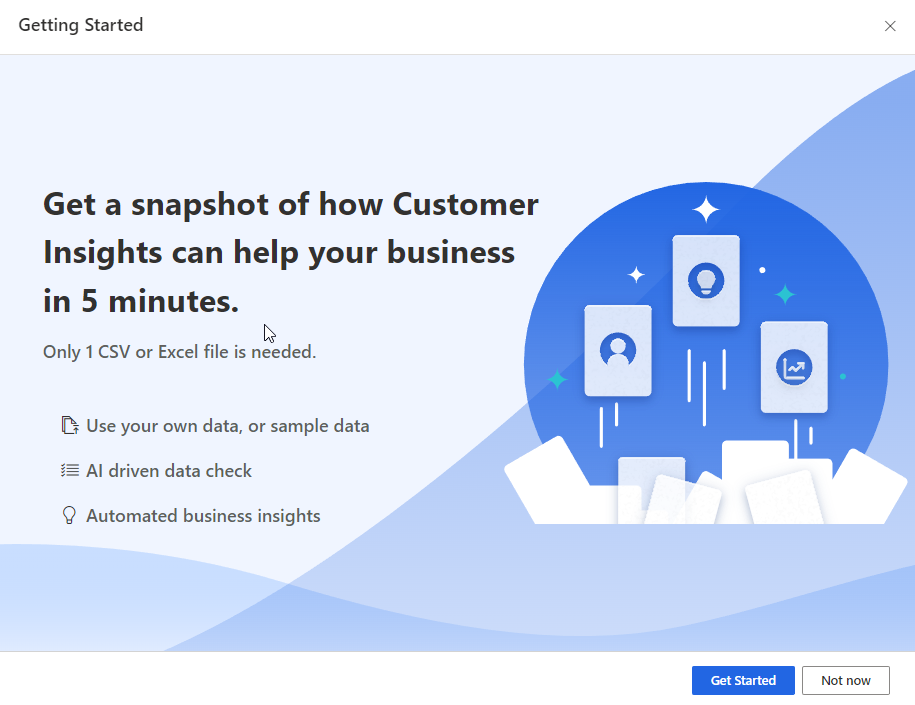
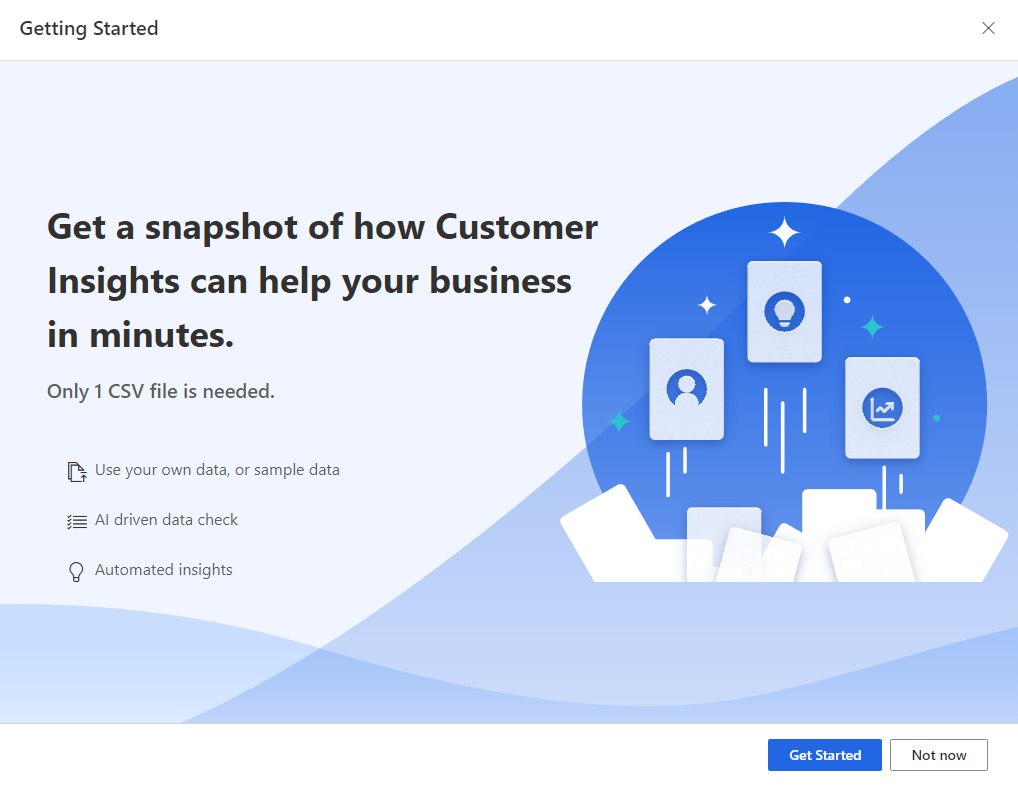
Screens and other changes for single source

diff --git a/ci-docs/data-sources-single.md b/ci-docs/data-sources-single.md
@@ -1,7 +1,7 @@
 ---
-title: "Experience Customer Insights in 5 minutes"
+title: "Experience Customer Insights in minutes"
 description: "Learn how to ingest data from a single file or from sample data"
-ms.date: 12/1/2022
+ms.date: 12/6/2022
 
 ms.subservice: audience-insights
 ms.topic: overview
@@ -15,13 +15,13 @@ searchScope:
   - customerInsights
 ---
 
-# Experience Customer Insights in 5 minutes
+# Experience Customer Insights in minutes
 
 Dynamics 365 Customer Insights provides ingestion of a single data source to get you up and running quickly. Provide your own data in a .csv file or choose sample data.
 
 ## Prerequisites
 
-- File must be a CSV file
+- File must be a CSV file with only letters, numbers, and _ in the file name
 - File must contain more than 100 rows and 5 columns
 - File must include at least one column of each data category:
   - Identity: Customer number, email, SSN
@@ -30,9 +30,9 @@ Dynamics 365 Customer Insights provides ingestion of a single data source to get
 
 ## Ingest a single data source
 
-1. On the **Home** page, select **Get insights in 5 mins**.
+1. On the **Home** page, select **Get insights in mins**.
 
-   :::image type="content" source="media/home-single-file.png" alt-text="Screenshot of Home page with Get insights in 5 mins selected.":::
+   :::image type="content" source="media/home-single-file.png" alt-text="Screenshot of Home page with Get insights in mins selected.":::
 
 1. Select **Add data**. The Getting Started page displays.
 
@@ -40,35 +40,30 @@ Dynamics 365 Customer Insights provides ingestion of a single data source to get
 
 1. Select **Get started**.
 
-   :::image type="content" source="media/data-source-single-file-step1.png" alt-text="Screenshot of Home page with Get insights in 5 mins selected.":::
+   :::image type="content" source="media/get-started-add-data.png" alt-text="Screenshot of Getting Started - Add Data to add your single CSV file.":::
 
-1. To use your own data, browse or drag and drop your file. To use sample data, select **Download Microsoft’s sample data** and load the sample file.
-
-   If the file meets the prerequisites, **Next** displays.
+1. To use your own data, browse or drag and drop your file. To use sample data, select **Download Microsoft’s sample data** and load the sample file. If the file meets the prerequisites, **Next** displays.
 
 1. Click **Next**. Customer Insights checks the data quality.
 
    > [!TIP]
    > If an error occurs during data processing, Customer Insights explains the issue in a message and provides an action to take. For example, if required attributes needed to generate insights are not identified, click [**Map data**](#map-required-data).
 
-1. Click **Next**. Customer Insights removes duplicate records, creates customer profiles, and generates insights such as segments and measures.
-
-1. While waiting for your data to process, click the link to learn more about Customer Insights. Proceed through the tutorial.
+   After the data quality checks, Customer Insights removes duplicate records, creates customer profiles, and generates insights such as segments and measures.
 
 1. Upon a successful completion, the **Results** page displays results from your file:
-   - Data quality checks which can be viewed in a report
    - Number of mapped columns
    - Number of missing rows
    - Number of duplicate rows
    - Suggested segments and measures
 
-1. To export the segments, select **export page**. Otherwise, select **Done** to go to the **Home** page.
+1. Select **Done** to go to the **Home** page.
 
 ### Map required data
 
 1. Under the **Needs mapping** tab, select each field in your file that matches the list of fields displayed.
 
-1. Review all mapped fields under **All mapped** tab and make changes if necessary.
+1. Review all mapped fields under the **All mapped** tab and make changes if necessary.
 
 1. Select **Next**.
 

diff --git a/ci-docs/home.md b/ci-docs/home.md
@@ -1,7 +1,7 @@
 ---
 title: "Explore Customer Insights"
 description: "Start exploring the app on the Home page."
-ms.date: 05/11/2022
+ms.date: 12/6/2022
 ms.reviewer: mhart
 ms.subservice: audience-insights
 ms.topic: conceptual
@@ -17,9 +17,13 @@ searchScope:
 
 You can access [Dynamics 365 Customer Insights](https://home.ci.ai.dynamics.com/) on the following URL: [https://home.ci.ai.dynamics.com/](https://home.ci.ai.dynamics.com/).
 
-The **Home** page guides you through the configuration process for key features and provides an overview of segments, measures, and enrichment data.
+The **Home** page guides you through the configuration process for key features and provides an overview of segments, measures, and enrichment data. The default home page shows how to get insights in minutes by adding data in a single file.
 
-:::image type="content" source="media/home-page.png" alt-text="Screenshot of the Home screen showing sample insights.":::
+:::image type="content" source="media/home-single-file.png" alt-text="Screenshot of the default Home screen showing get insights in minutes.":::
+
+If you have multiple data sources, select **Step-by-step guide**.
+
+:::image type="content" source="media/home-page.png" alt-text="Screenshot of the Home screen showing step-by-step cards.":::
 
 ## Left side pane
 
@@ -39,7 +43,15 @@ The **Settings** control, represented by a gear icon, lets you gather session de
 
 Your profile picture opens the **Account manager** for your Microsoft 365 profile. Select **My account** to manage your personal settings.
 
-## Getting started with Customer Insights section
+## Getting started with Customer Insights
+
+The cards that display on the **Home** page depend on the selection: **Get insights in mins** or **Step-by-step guide**.
+
+### Get insights in minutes
+
+This section contains a card to upload a single file and receive automatic customer insights and then a card to add connections to activate those insights. Select **Add data** to [upload your file](data-sources-single.md). Once your data is uploaded and insights such as segments and measures generated, select **Add connections** to connect your favorite services. For example, export the data to Facebook to use in social media.
+
+### Step-by-step guide
 
 This section contains cards that help you walk through the process of setting up your Customer Insights environment.
 

diff --git a/ci-docs/get-started.md b/ci-docs/get-started.md
@@ -4,7 +4,7 @@ description: An overview of Customer Insights help resources to get started quic
 ms.reviewer: mhart
 ms.author: mhart
 author: m-hartmann
-ms.date: 12/1/2022
+ms.date: 12/6/2022
 ms.subservice: audience-insights 
 ms.topic: conceptual
 ms.manager: shellyha
@@ -30,12 +30,12 @@ The first time you sign in to Customer Insights, configure settings and explore 
 
 1. Change the environment to see demo data and [explore Customer Insights](home.md).
 
+> [!NOTE]
+> To upload a single CSV file, unify the data, and generate automatic insights, go to [Experience Customer Insights in minutes](data-sources-single.md). Otherwise, continue with the following steps.
+
 ## Step 3: Ingest, unify, and set up relationships for your data
 
 Unified profiles are the foundation to get insights and take action on the data. Bring in data from various sources and run the data unification process to combine unified profiles. Specify relationships between the ingested entities and use enrichment features to add information to the profiles.
-
-> [!NOTE]
-> To upload a single CSV file, unify the data, and generate automatic insights, go to [Experience Customer Insights in 5 minutes](data-sources-single.md). Otherwise, continue with the following steps.
 
 1. Ingest data by creating data sources from multiple options. Choose between [Azure Data Lake Storage, including Common Data Model](connect-common-data-model.md), [Azure Synapse Analytics](connect-synapse.md), [Microsoft Dataverse](connect-dataverse-managed-lake.md), or  [Power Query connectors](connect-power-query.md).
 

diff --git a/ci-docs/data-sources.md b/ci-docs/data-sources.md
@@ -1,7 +1,7 @@
 ---
 title: "Data sources overview"
 description: "Learn how to import or ingest data from various sources."
-ms.date: 09/29/2022
+ms.date: 12/6/2022
 
 ms.subservice: audience-insights
 ms.topic: overview
@@ -19,9 +19,12 @@ searchScope:
 
 Dynamics 365 Customer Insights provides connections to bring data from a broad set of sources. Connecting to a data source is often referred to as the process of *data ingestion*. After ingesting the data, you can [unify](data-unification.md), generate insights, and activate the data for building personalized experiences.
 
+> [!NOTE]
+> To upload a single CSV file, unify the data, and generate automatic insights, go to [Experience Customer Insights in minutes](data-sources-single.md).
+
 ## Add or edit data sources
 
-You can attach or import data sources into Customer Insights. The links below provide instructions on adding and editing data sources.
+You can attach or import multiple data sources into Customer Insights. The links below provide instructions on adding and editing data sources.
 
 **Attach a data source**
 
